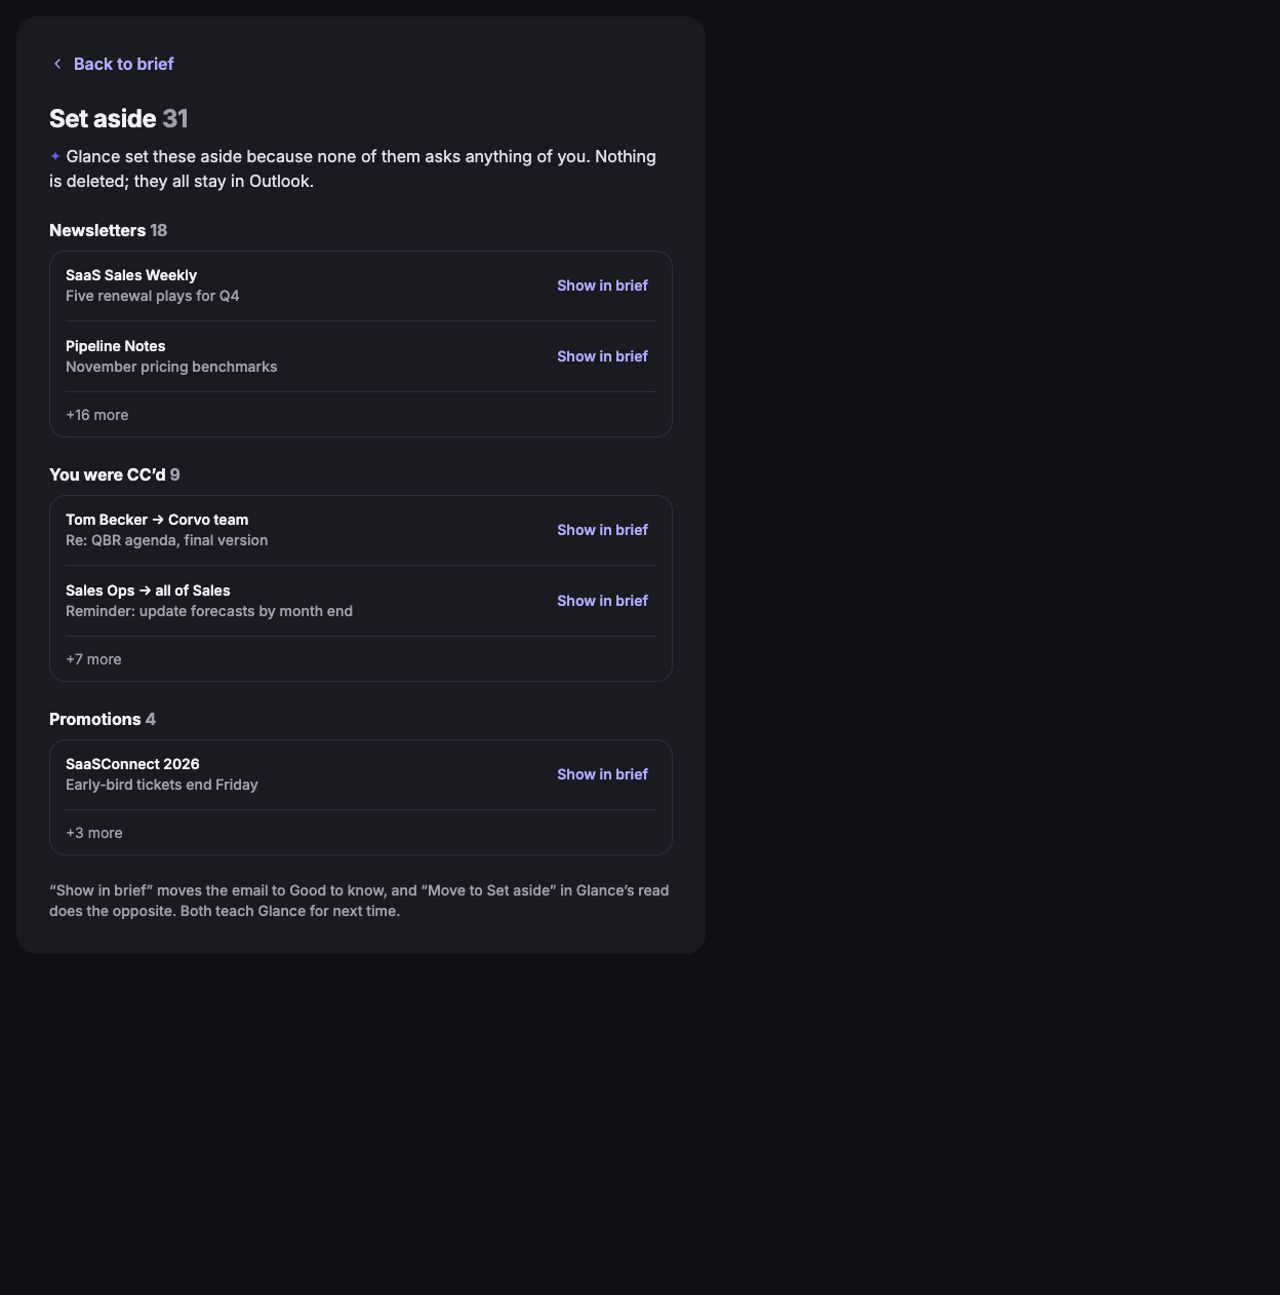
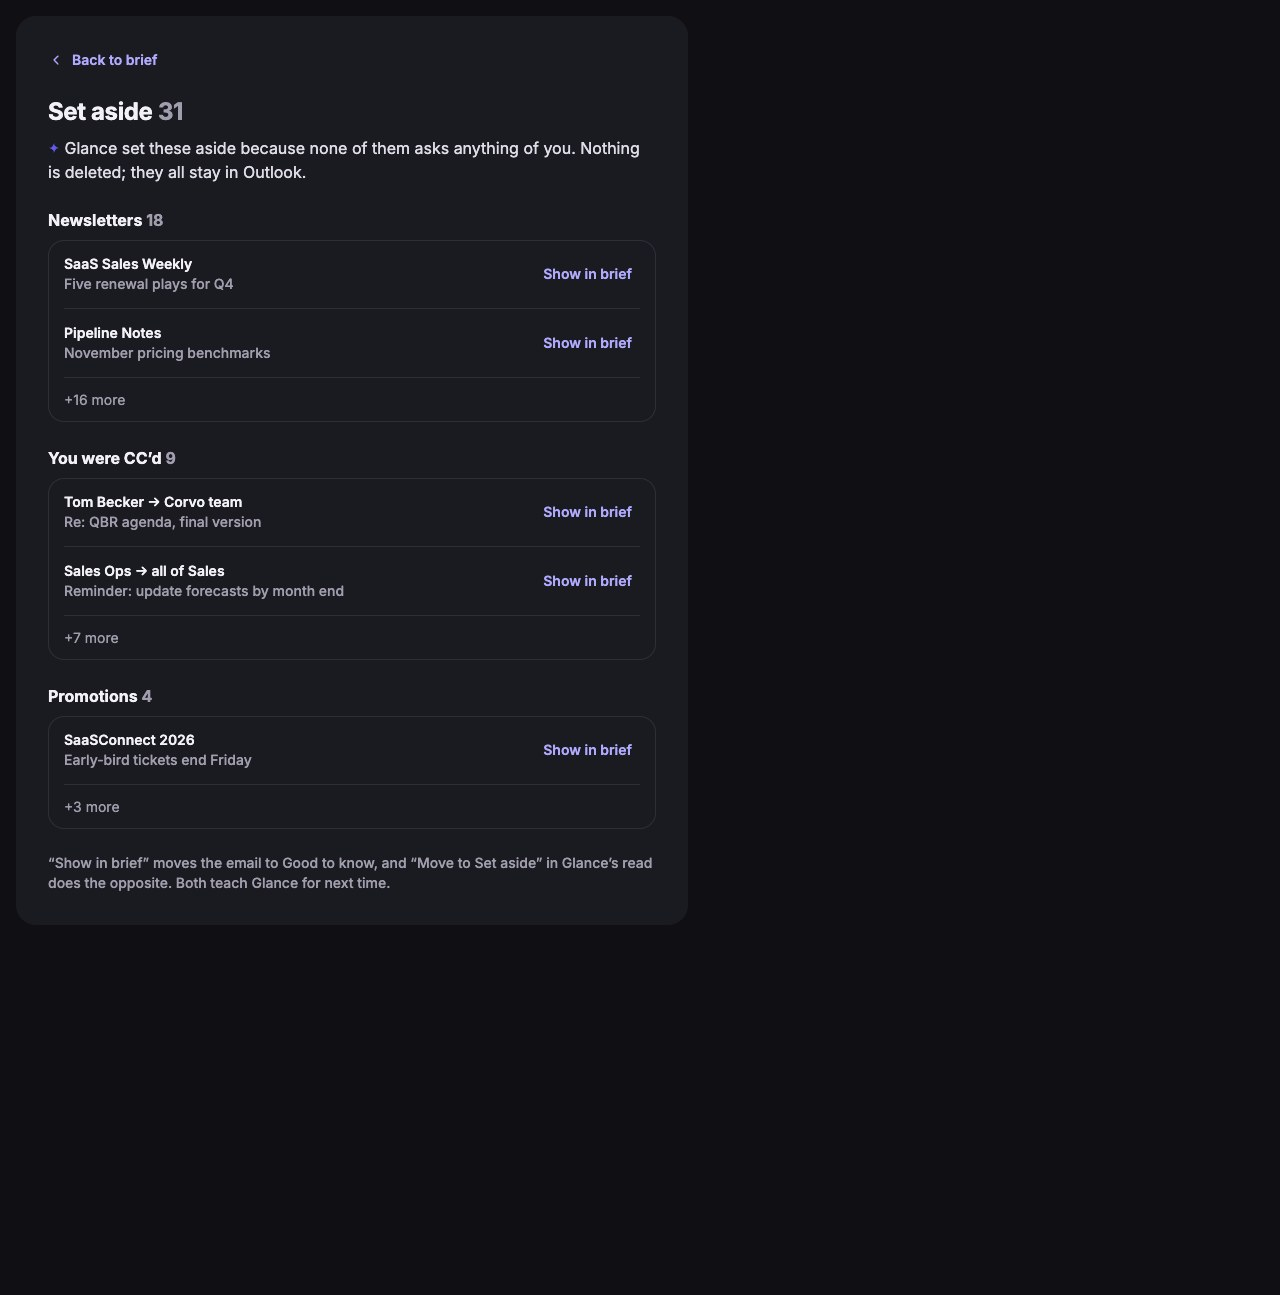
fix(ds): refine set aside navigation and whole-email rows

diff --git a/src/design-system/components/KnowRow/KnowRow.tsx b/src/design-system/components/KnowRow/KnowRow.tsx
@@ -1,5 +1,5 @@
 import { useId, useRef } from 'react';
-import type { Account, Item, KnowItem } from '../../../data/types';
+import type { Account, KnowItem } from '../../../data/types';
 import { AccountLabel } from '../AccountLabel/AccountLabel';
 import { Icon } from '../Icon/Icon';
 import { Field } from '../Field/Field';
@@ -11,14 +11,14 @@ import { useSectionDisclosure } from '../SectionCard/disclosure';
 import motion from '../ListMotion.module.css';
 import styles from './KnowRow.module.css';
 
-interface KnowRowProps {
-  item:
-    | KnowItem
-    | Pick<Item, 'name' | 'request'>
-    | { title: string; sub: string; movedByUser: true };
-  account?: Account;
-  onOpenEmail: (source: KnowItem['fact']['source']) => void;
-}
+type OpenEmail = (source: KnowItem['fact']['source']) => void;
+type KnowRowProps =
+  | { item: KnowItem; account?: Account; onOpenEmail: OpenEmail }
+  | {
+      item: { title: string; sub: string; movedByUser: true };
+      account?: never;
+      onOpenEmail?: never;
+    };
 export function KnowRow({ item, account, onOpenEmail }: KnowRowProps) {
   const prefix = useId();
   const { active, toggle, close } = useSectionDisclosure();
@@ -39,34 +39,6 @@ export function KnowRow({ item, account, onOpenEmail }: KnowRowProps) {
             {': ' + item.sub}
           </div>
           <span className={styles.moved}>Moved by you</span>
-        </div>
-      </div>
-    );
-  if ('request' in item)
-    return (
-      <div role="listitem" className={styles.row}>
-        <div className={styles.main}>
-          <span className={[styles.tile, styles.neutral].join(' ')}>
-            <Icon name="mail" />
-          </span>
-          <div className={styles.text}>
-            <strong>{item.name}</strong>
-            {account && (
-              <>
-                {' '}
-                <AccountLabel account={account} />
-              </>
-            )}
-            <span className={styles.moved}>Moved by you</span>
-            <span>
-              {item.request.type === 'summary' && (
-                <>
-                  <GlanceMark />{' '}
-                </>
-              )}
-              {item.request.text}
-            </span>
-          </div>
         </div>
       </div>
     );
@@ -126,7 +98,7 @@ export function KnowRow({ item, account, onOpenEmail }: KnowRowProps) {
             {...item.fact.source}
             source={item.fact.source}
             kind={item.fact.kind}
-            onOpenEmail={() => onOpenEmail(item.fact.source)}
+            onOpenEmail={() => onOpenEmail!(item.fact.source)}
             onClose={() => {
               close();
               fieldRef.current?.focus();
@@ -148,7 +120,7 @@ export function KnowRow({ item, account, onOpenEmail }: KnowRowProps) {
             {...item.judgment.source}
             source={item.judgment.source}
             kind="judgment"
-            onOpenEmail={() => onOpenEmail(item.judgment!.source)}
+            onOpenEmail={() => onOpenEmail!(item.judgment!.source)}
             onClose={() => {
               close();
               reasonRef.current?.focus();

diff --git a/src/design-system/components/SetAsideList/SetAsideList.tsx b/src/design-system/components/SetAsideList/SetAsideList.tsx
@@ -38,34 +38,46 @@ export function SetAsideList({
   mobile = false,
   busy,
 }: Props) {
+  const root = useRef<HTMLElement>(null);
   const back = useRef<HTMLButtonElement>(null);
   const total = groups.reduce((n, g) => n + g.count, 0) + moved.length;
   return (
     <section
+      ref={root}
       aria-label="Set aside view"
       className={[styles.panel, mobile && styles.mobile]
         .filter(Boolean)
         .join(' ')}
     >
       <div className={styles.header}>
-        <div className={styles.navigation}>
-          <Button ref={back} variant="text" size="touch" onClick={onBack}>
-            <Icon name="chevron" className={styles.backIcon} />
-            Back to brief
-          </Button>
-          {mobile && (
-            <IconButton
-              icon="close"
-              aria-label="Close Set aside"
-              data-sheet-autofocus
-              onClick={onClose ?? onBack}
-            />
-          )}
-        </div>
+        {!mobile && (
+          <div className={styles.navigation}>
+            <Button
+              ref={back}
+              variant="text"
+              size="compact"
+              className={styles.action}
+              onClick={onBack}
+            >
+              <Icon name="chevron" className={styles.backIcon} />
+              Back to brief
+            </Button>
+          </div>
+        )}
         <header className={styles.intro}>
-          <Text as="h2" variant="title" className={styles.title}>
-            Set aside <span>{total}</span>
-          </Text>
+          <div className={styles.navigation}>
+            <Text as="h2" variant="title" className={styles.title}>
+              Set aside <span>{total}</span>
+            </Text>
+            {mobile && (
+              <IconButton
+                icon="close"
+                aria-label="Close Set aside"
+                data-sheet-autofocus
+                onClick={onClose ?? onBack}
+              />
+            )}
+          </div>
           <Text as="p" variant="body" className={styles.description}>
             <GlanceMark /> Glance set these aside because none of them asks
             anything of you. Nothing is deleted; they all stay in{' '}
@@ -102,7 +114,14 @@ export function SetAsideList({
                   disabled={busy}
                   onClick={() => {
                     onRestore(item.id);
-                    requestAnimationFrame(() => back.current?.focus());
+                    requestAnimationFrame(() =>
+                      (
+                        back.current ??
+                        root.current?.querySelector<HTMLElement>(
+                          '[data-sheet-autofocus]',
+                        )
+                      )?.focus(),
+                    );
                   }}
                 >
                   Back to Needs you

diff --git a/src/design-system/components/KnowRow/KnowRow.stories.tsx b/src/design-system/components/KnowRow/KnowRow.stories.tsx
@@ -1,9 +1,10 @@
+import type { ComponentProps } from 'react';
 import type { Meta, StoryObj } from '@storybook/react-vite';
 import { fn, expect, userEvent, waitFor } from 'storybook/test';
 import { KnowRow } from './KnowRow';
 import { SectionCard } from '../SectionCard/SectionCard';
 import { maya, sarah, upsell } from '../listSamples';
-const meta = {
+const meta: Meta<typeof KnowRow> = {
   title: 'Composites/KnowRow',
   component: KnowRow,
   args: { item: maya.goodToKnow[0], onOpenEmail: fn() },
@@ -14,21 +15,22 @@ const meta = {
       </SectionCard>
     ),
   ],
-} satisfies Meta<typeof KnowRow>;
+};
 export default meta;
-type Story = StoryObj<typeof meta>;
+type Props = ComponentProps<typeof KnowRow>;
+type Story = StoryObj<{
+  item?: Props['item'];
+  onOpenEmail?: Props['onOpenEmail'];
+}>;
 export const Default: Story = {};
 export const Time: Story = { args: { item: sarah.goodToKnow[0] } };
 export const PeopleAndJudgment: Story = { args: { item: upsell } };
-export const MovedByYou: Story = {
-  render: () => <KnowRow item={maya.items[2]} onOpenEmail={fn()} />,
-};
 export const OnePanelPerCard: Story = {
   decorators: [],
   render: (args) => (
     <SectionCard title="Good to know" count={2}>
-      <KnowRow item={maya.goodToKnow[0]} onOpenEmail={args.onOpenEmail} />
-      <KnowRow item={upsell} onOpenEmail={args.onOpenEmail} />
+      <KnowRow item={maya.goodToKnow[0]} onOpenEmail={args.onOpenEmail!} />
+      <KnowRow item={upsell} onOpenEmail={args.onOpenEmail!} />
     </SectionCard>
   ),
   play: async ({ canvas, args }) => {
@@ -72,8 +74,9 @@ export const OnePanelPerCard: Story = {
   },
 };
 
-export const KeptMail: Story = {
+export const MovedByYou: Story = {
   args: {
+    onOpenEmail: undefined,
     item: {
       title: maya.setAside[0].rows.find((row) => !row.isNew)!.title,
       sub: maya.setAside[0].rows.find((row) => !row.isNew)!.sub,

diff --git a/src/design-system/components/SetAsideList/SetAsideList.module.css b/src/design-system/components/SetAsideList/SetAsideList.module.css
@@ -13,7 +13,7 @@
   justify-content: space-between;
   min-inline-size: 0;
 }
-.navigation > button:first-child {
+.navigation > .action:first-child {
   padding-inline: 0;
 }
 .backIcon {
@@ -124,8 +124,11 @@
   min-block-size: 0;
   flex: 1;
 }
-.mobile .navigation {
-  min-block-size: var(--space-24);
+.mobile .subject {
+  display: -webkit-box;
+  -webkit-box-orient: vertical;
+  -webkit-line-clamp: 2;
+  white-space: normal;
 }
 
 .header {
